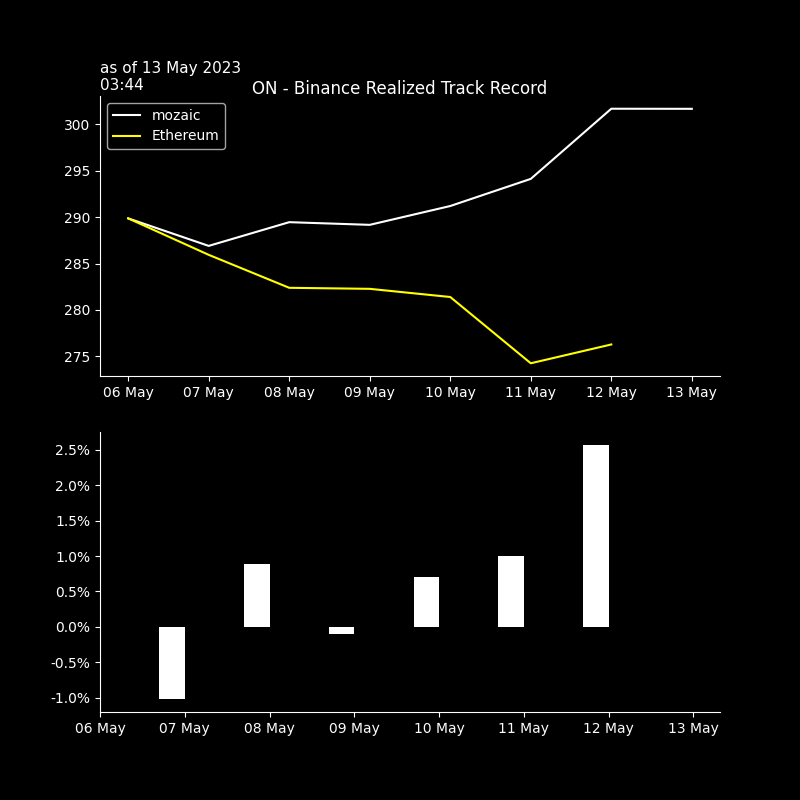
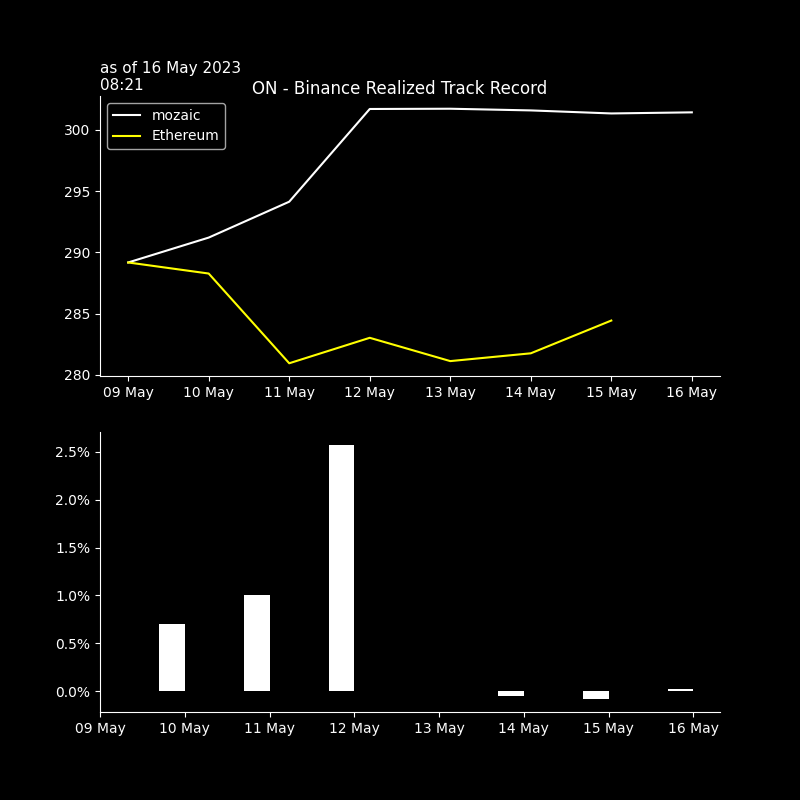
seb_commit

diff --git a/crypto/graphs/bt_trades_recap.htmltrade_trades_recap.html b/crypto/graphs/bt_trades_recap.htmltrade_trades_recap.html
@@ -9,32 +9,32 @@
   <tbody>
     <tr>
       <th>as of</th>
-      <td>13May 02:42&gt;&gt;02:44</td>
+      <td>16May 07:08&gt;&gt;07:08</td>
       <td>#trades: 1</td>
     </tr>
     <tr>
       <th>trade net</th>
-      <td>-54.0</td>
-      <td>-17.9%</td>
+      <td>+27.0</td>
+      <td>+9.0%</td>
     </tr>
     <tr>
       <th>trade gross</th>
-      <td>+54.0</td>
-      <td>+17.9%</td>
+      <td>+27.0</td>
+      <td>+9.0%</td>
     </tr>
     <tr>
       <th>BUY</th>
+      <td>+27.0</td>
+      <td>+9.0%</td>
+    </tr>
+    <tr>
+      <th>SELL</th>
       <td>+0.0</td>
       <td>+0.0%</td>
     </tr>
     <tr>
-      <th>SELL</th>
-      <td>-54.0</td>
-      <td>-17.9%</td>
-    </tr>
-    <tr>
       <th>fees</th>
-      <td>$ 0.011</td>
+      <td>$ 0.005</td>
       <td>2.0bp</td>
     </tr>
   </tbody>

diff --git a/crypto/graphs/bt_trades_pnlD_recap.htmltrade_trades_pnlD_recap.html b/crypto/graphs/bt_trades_pnlD_recap.htmltrade_trades_pnlD_recap.html
@@ -1,7 +1,7 @@
 <table border="1" class="dataframe">
   <thead>
     <tr style="text-align: right;">
-      <th>13 May 03:44</th>
+      <th>16 May 08:09</th>
       <th>realizedPnl</th>
       <th>PnLvsArrival</th>
       <th>PnLvsLast</th>
@@ -10,21 +10,21 @@
   <tbody>
     <tr>
       <th>in$</th>
+      <td>-0.3</td>
       <td>0.0</td>
       <td>0.0</td>
-      <td>-0.0</td>
     </tr>
     <tr>
-      <th>in bp 53 traded</th>
-      <td>2 bp</td>
-      <td>2 bp</td>
-      <td>-2 bp</td>
+      <th>in bp 27 traded</th>
+      <td>-100 bp</td>
+      <td>0 bp</td>
+      <td>0 bp</td>
     </tr>
     <tr>
       <th>in bp 301 AUMs</th>
+      <td>-9 bp</td>
       <td>0 bp</td>
       <td>0 bp</td>
-      <td>-0 bp</td>
     </tr>
   </tbody>
 </table>

diff --git a/crypto/graphs/bt_trades_book.htmltrade_trades_book.html b/crypto/graphs/bt_trades_book.htmltrade_trades_book.html
@@ -38,20 +38,20 @@
   <tbody>
     <tr>
       <th>BTCUSDT</th>
-      <td>26785.55</td>
-      <td>2023-05-13 02:43:36.500</td>
-      <td>-0.002</td>
-      <td>$-53.6</td>
+      <td>27060.0</td>
+      <td>2023-05-16 07:08:59</td>
+      <td>0.001</td>
+      <td>$27.1</td>
       <td>$0.01</td>
       <td>2.0</td>
+      <td>-0.3</td>
+      <td>27061.75</td>
+      <td>2023-05-16 08:07</td>
       <td>0.0</td>
-      <td>26781.75</td>
-      <td>2023-05-13 03:42</td>
       <td>0.0</td>
-      <td>2.0</td>
-      <td>26792.5</td>
+      <td>27059.9</td>
       <td>-0.0</td>
-      <td>-2.0</td>
+      <td>-0.0</td>
     </tr>
   </tbody>
 </table>
